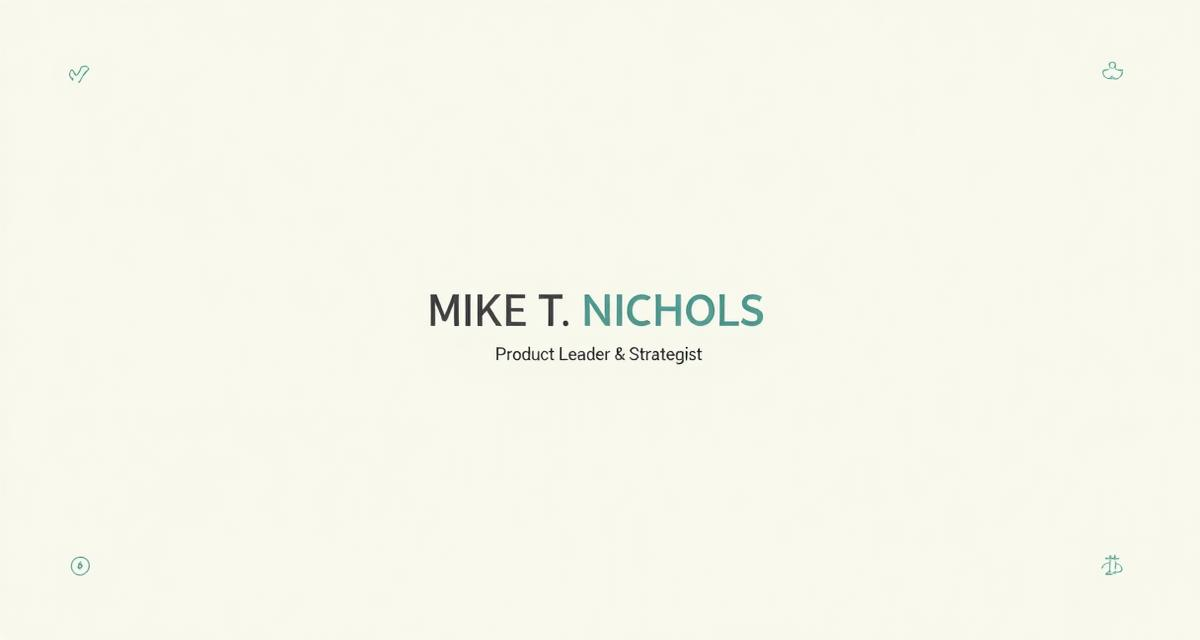
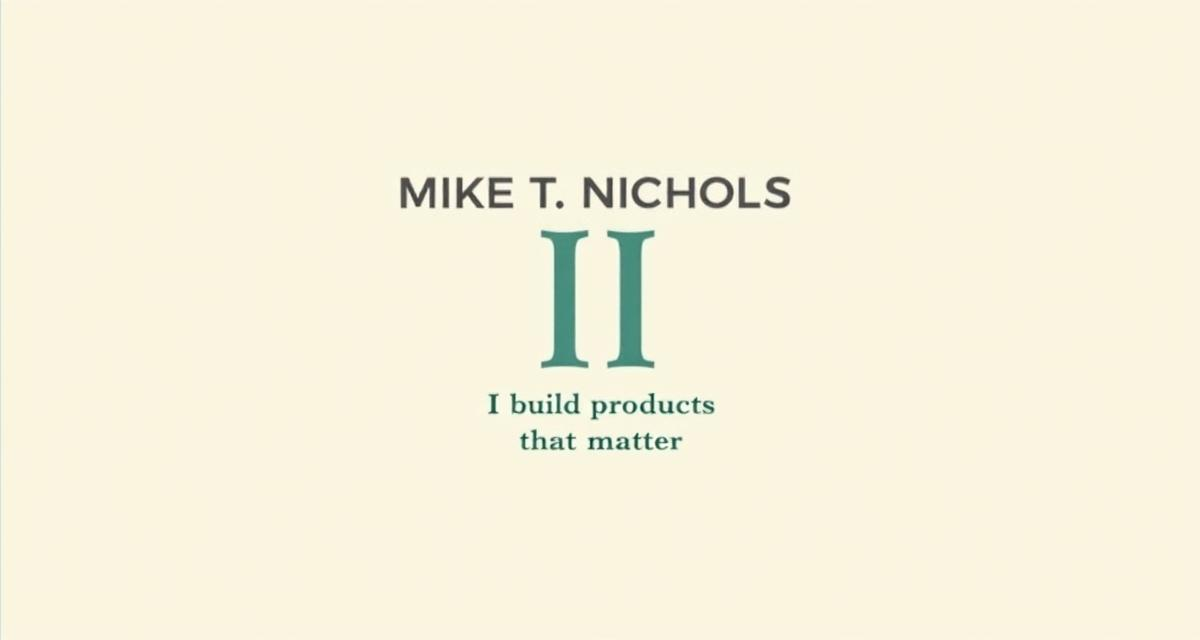
Changes

diff --git a/src/components/Hero.tsx b/src/components/Hero.tsx
@@ -31,14 +31,14 @@ const Hero = () => {
 
           {/* Main headline */}
           <StaggerItem>
-            <h1 className="text-3xl sm:text-4xl md:text-5xl lg:text-6xl font-bold leading-[1.15] mb-1 sm:mb-2 text-headline">
+            <h1 className="text-3xl sm:text-4xl md:text-5xl lg:text-6xl font-bold leading-tight mb-1 sm:mb-2 text-headline px-1">
               Hi, I'm Mike T. Nichols{" "}
-              <span className="text-primary text-2xl sm:text-3xl md:text-4xl lg:text-5xl align-baseline" style={{ fontFamily: 'Georgia, "Times New Roman", serif' }}>II</span>
+              <span className="text-primary" style={{ fontFamily: 'Georgia, "Times New Roman", serif' }}>II</span>
             </h1>
           </StaggerItem>
           
           <StaggerItem>
-            <h1 className="text-3xl sm:text-4xl md:text-5xl lg:text-6xl font-bold leading-[1.15] text-gradient-brand mb-5 sm:mb-8">
+            <h1 className="text-3xl sm:text-4xl md:text-5xl lg:text-6xl font-bold leading-tight text-gradient-brand mb-5 sm:mb-8 px-1">
               I build products that matter.
             </h1>
           </StaggerItem>

diff --git a/src/components/SectionTransition.tsx b/src/components/SectionTransition.tsx
@@ -1,4 +1,4 @@
-import { motion, useScroll, useTransform } from "framer-motion";
+import { motion, useInView } from "framer-motion";
 import { useRef, ReactNode } from "react";
 
 interface SectionTransitionProps {
@@ -8,18 +8,14 @@ interface SectionTransitionProps {
 
 const SectionTransition = ({ children, className = "" }: SectionTransitionProps) => {
   const ref = useRef(null);
-  const { scrollYProgress } = useScroll({
-    target: ref,
-    offset: ["start end", "end start"],
-  });
-
-  const opacity = useTransform(scrollYProgress, [0, 0.15, 0.85, 1], [0.4, 1, 1, 0.4]);
-  const y = useTransform(scrollYProgress, [0, 0.15], [30, 0]);
+  const isInView = useInView(ref, { once: true, margin: "-50px" });
 
   return (
     <motion.div
       ref={ref}
-      style={{ opacity, y }}
+      initial={{ opacity: 0, y: 40 }}
+      animate={isInView ? { opacity: 1, y: 0 } : { opacity: 0, y: 40 }}
+      transition={{ duration: 0.6, ease: [0.25, 0.46, 0.45, 0.94] }}
       className={className}
     >
       {children}

diff --git a/src/components/Header.tsx b/src/components/Header.tsx
@@ -65,12 +65,11 @@ const Header = () => {
             onClick={(e) => scrollToSection(e, "#")}
             initial={{ opacity: 0 }}
             animate={{ opacity: 1 }}
-            className="text-lg sm:text-xl font-bold text-foreground flex items-baseline gap-0.5 sm:gap-1"
+            className="text-lg sm:text-xl font-bold text-foreground flex items-baseline"
           >
             <span className="hidden sm:inline">Mike T. Nichols</span>
             <span className="sm:hidden">MTN</span>
-            <span className="text-primary">.</span>
-            <span className="text-xs sm:text-sm text-primary font-semibold tracking-wide" style={{ fontFamily: 'Georgia, "Times New Roman", serif' }}>II</span>
+            <span className="text-primary ml-1" style={{ fontFamily: 'Georgia, "Times New Roman", serif' }}>II</span>
           </motion.a>
 
           {/* Center Navigation - Pill style like NEKO */}

diff --git a/src/components/Footer.tsx b/src/components/Footer.tsx
@@ -9,9 +9,9 @@ const Footer = () => {
           <motion.a
             href="#"
             whileHover={{ scale: 1.05 }}
-            className="text-lg sm:text-xl font-bold text-foreground flex items-baseline gap-0.5 sm:gap-1"
+            className="text-lg sm:text-xl font-bold text-foreground flex items-baseline"
           >
-            Mike Nichols<span className="text-primary">.</span><span className="text-xs sm:text-sm text-primary font-semibold tracking-wide" style={{ fontFamily: 'Georgia, "Times New Roman", serif' }}>II</span>
+            Mike T. Nichols<span className="text-primary ml-1" style={{ fontFamily: 'Georgia, "Times New Roman", serif' }}>II</span>
           </motion.a>
 
           {/* Navigation */}

diff --git a/src/components/LoadingScreen.tsx b/src/components/LoadingScreen.tsx
@@ -32,9 +32,10 @@ const LoadingScreen = ({ onLoadingComplete }: LoadingScreenProps) => {
               initial={{ opacity: 0, scale: 0.8 }}
               animate={{ opacity: 1, scale: 1 }}
               transition={{ duration: 0.4, ease: "easeOut" }}
-              className="text-4xl font-bold tracking-tight"
+              className="text-3xl sm:text-4xl font-bold tracking-tight flex items-baseline"
             >
-              <span className="text-gradient-brand">MN.</span>
+              <span className="text-headline">MTN</span>
+              <span className="text-primary ml-1" style={{ fontFamily: 'Georgia, "Times New Roman", serif' }}>II</span>
             </motion.div>
 
             {/* Loading bar */}

diff --git a/src/index.css b/src/index.css
@@ -96,6 +96,7 @@
     -webkit-background-clip: text;
     -webkit-text-fill-color: transparent;
     background-clip: text;
+    padding-bottom: 0.1em;
   }
 
   .glass-card {
